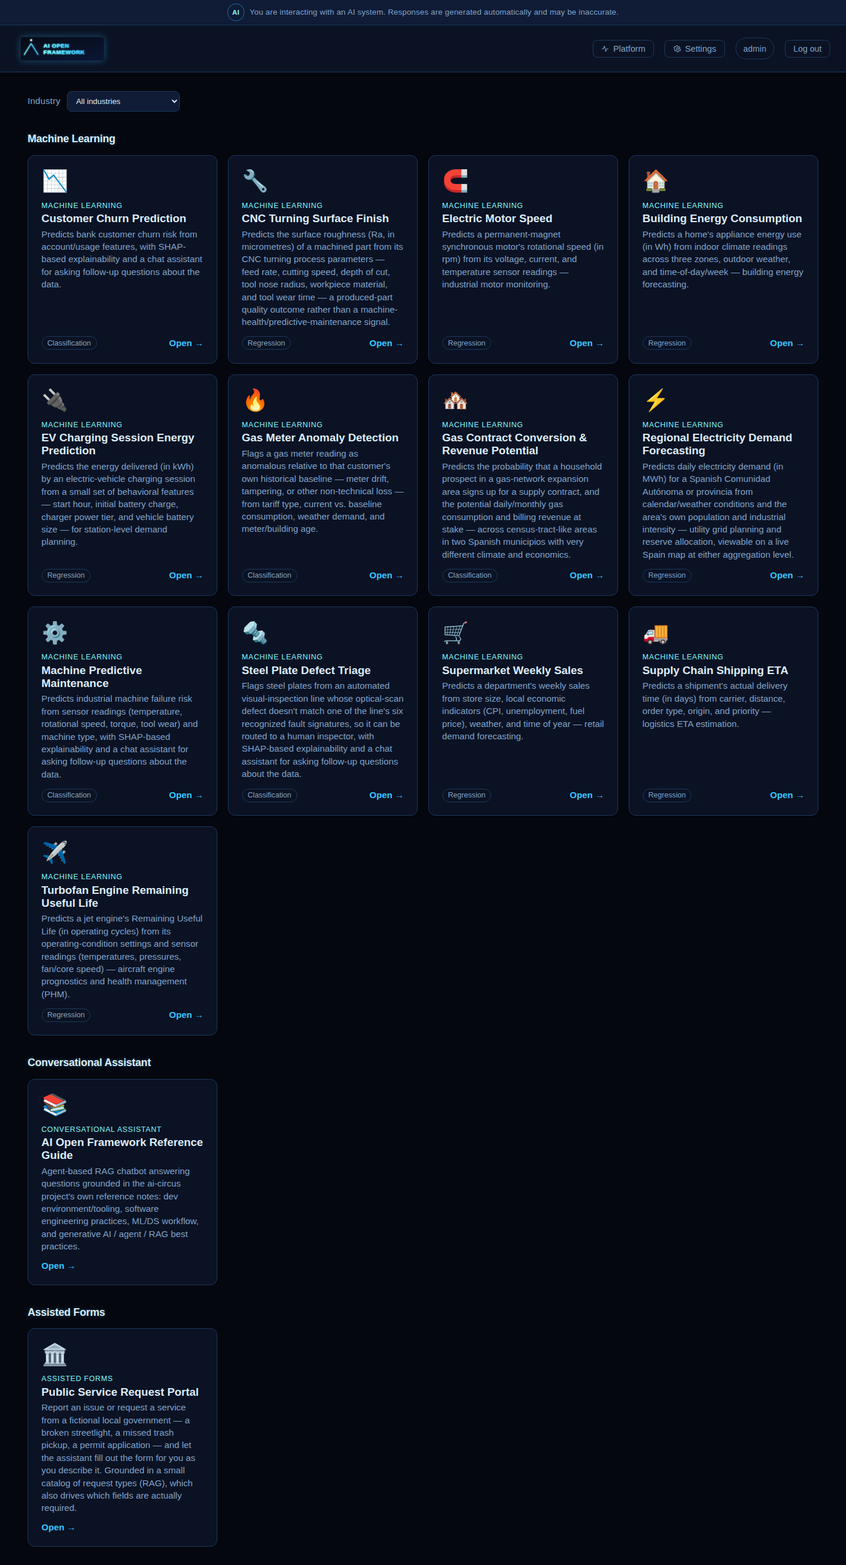
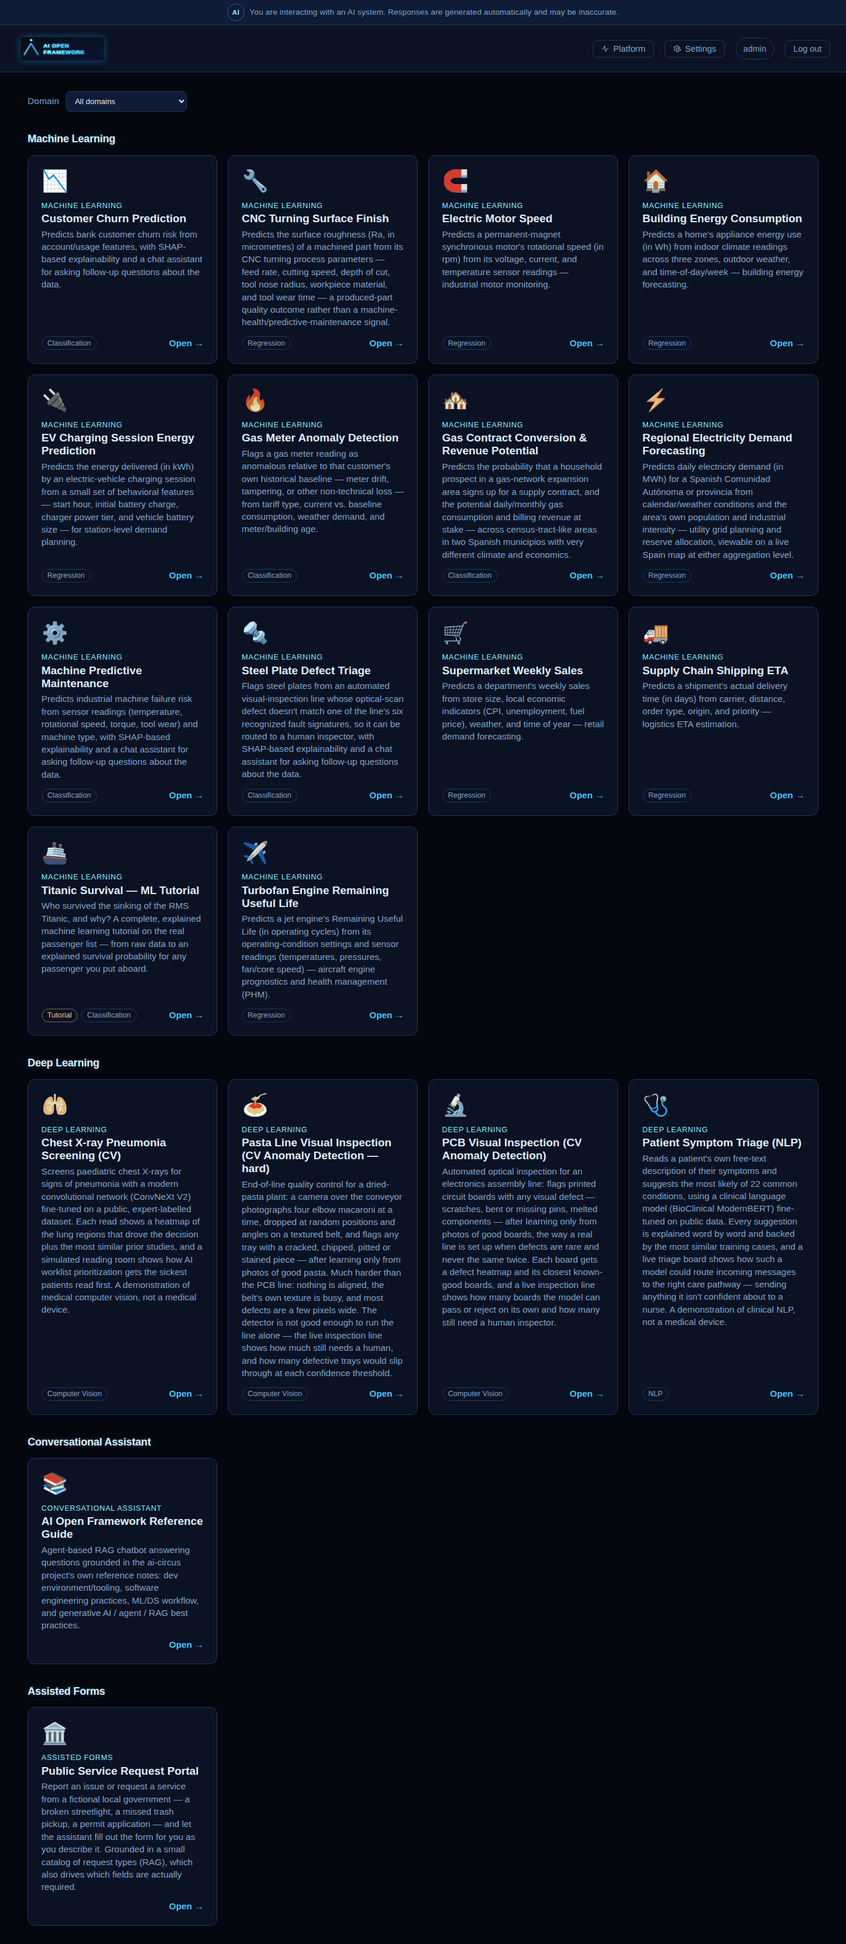
docs: Feature the Titanic tutorial in the README

diff --git a/services/training/src/training/core/training.py b/services/training/src/training/core/training.py
@@ -30,8 +30,9 @@ logger = get_logger(__name__)
 
 # Gradient boosting sized for small tables (hundreds to a few thousand rows): shallow
 # trees, a slow learning rate, row/column subsampling and L2 — the plain `lightgbm`
-# defaults memorise a table that small. Measured on `titanic` (5-fold CV ROC AUC):
-# 0.884 for this vs 0.867 for `lightgbm` and 0.865 for logistic regression.
+# defaults memorise a table that small. Measured on `titanic` (5-fold CV ROC AUC on
+# the training split): 0.885 for this vs 0.860 for `lightgbm` and 0.872 for logistic
+# regression.
 _SMALL_DATA_LGBM: dict[str, Any] = {
     "n_estimators": 300,
     "learning_rate": 0.03,

diff --git a/docs/scenarios/titanic.md b/docs/scenarios/titanic.md
@@ -1,0 +1,310 @@
+# 🚢 Titanic Survival — an explained ML tutorial
+
+> Domain: **Tutorials** · Kind: `tabular_ml` (binary classification) · Scenario: [`scenarios/titanic/scenario.yaml`](../../scenarios/titanic/scenario.yaml)
+
+On 15 April 1912 the RMS Titanic sank on her maiden voyage and more than 1,500 of the 2,224
+people aboard died. This scenario turns the real passenger list into a complete, **explained**
+machine-learning tutorial. It walks every step from the raw CSV to an explained survival
+probability, then puts all 891 passengers back aboard an illustrated liner so you can explore
+who survived, what the model predicted for each of them, and why.
+
+<p align="center">
+  <img src="../screenshots/titanic/voyage-model.png" alt="The Voyage tab: all 891 passengers berthed by class aboard an illustrated cutaway of the RMS Titanic at night, coloured from red (likely perished) through grey to blue (likely survived)" width="900">
+</p>
+<p align="center"><sub>Every dot is a real passenger, berthed by ticket class and coloured by the model's survival probability.</sub></p>
+
+It is ported from the 2018 Keras notebook in
+[angelmtenor/data-science-keras](https://github.com/angelmtenor/data-science-keras/blob/master/notebooks/titanic.ipynb)
+and modernised: engineered features, a small-data gradient-boosting model chosen by
+cross-validation, SHAP explanations, and honest hold-out metrics.
+
+| | |
+|---|---|
+| **Question** | Did a passenger survive the sinking? We predict a probability, not a yes/no. |
+| **Data** | Kaggle *Titanic — Machine Learning from Disaster*, labelled file: 891 passengers (the crew are not included) |
+| **Model** | LightGBM tuned for small tables (`lightgbm_small_data`), selected over logistic regression |
+| **5-fold CV ROC AUC** | **0.885 ± 0.015** (logistic regression: 0.872 ± 0.016) |
+| **Hold-out (179 passengers)** | ROC AUC **0.873** · accuracy 82.1% · precision 81.4% · recall 69.6% |
+| **The 2018 Keras DNN** | ROC AUC 0.86 · accuracy 82.7% |
+| **Tabs** | Scenario · **Tutorial** · Data & BI · ML Predictions · ML Insights · **Voyage** |
+| **Extra infrastructure** | None. It uses the existing `prediction`/`training`/`etl-tabular` services; model artifacts are ~350 KB |
+
+## Contents
+
+- [The Voyage tab](#the-voyage-tab)
+- [The Tutorial tab](#the-tutorial-tab)
+- [The data science](#the-data-science)
+- [How it is built](#how-it-is-built)
+- [Run it yourself](#run-it-yourself)
+- [Adding the next tutorial](#adding-the-next-tutorial)
+- [Credits](#credits)
+
+---
+
+## The Voyage tab
+
+A night cutaway of a four-funnel liner: decks A–G, lifeboats on the boat deck, glowing boiler
+rooms, steam from the three working funnels, the ship's lights reflected on a flat-calm sea,
+and the iceberg dead ahead. All 891 passengers are aboard, berthed where their class slept:
+1st class high up amidships, 2nd class aft, and 3rd class (steerage) on the lowest decks at the
+bow and stern. They are scored and SHAP-explained by the deployed model in one batched
+`/predict` call.
+
+<p align="center"><img src="../screenshots/titanic/voyage-tab.png" alt="The Voyage tab: headline figures (891 aboard, 38% survived, model average 38%, cross-validated ROC AUC 0.885), colour-mode switch, passenger search and the ship" width="850"></p>
+
+### Three ways to colour the ship
+
+| Mode | What you see |
+|---|---|
+| **Model's prediction** | Survival probability on a red → grey → blue scale. Within each class the most likely survivors are berthed first, so every deck reads as a gradient. |
+| **Reveal real fate** | What actually happened: survivors filled blue, victims as hollow red rings, so fate is never encoded by colour alone. The reveal sweeps from bow to stern, the way the ship went down. |
+| **Model vs reality** | Only the model's mistakes light up: survivors it had written off (blue) and victims it expected to live (red). Everyone it got right fades into the hull. |
+
+<p align="center">
+  <img src="../screenshots/titanic/voyage-fate.png" alt="Reveal real fate: survivors as filled blue dots, victims as hollow red rings" width="49%">
+  <img src="../screenshots/titanic/voyage-surprises.png" alt="Model vs reality: only the passengers the model misjudged are highlighted" width="49%">
+</p>
+
+The class cards under the ship already tell the story: the model expects 62% / 47% / 24% of 1st /
+2nd / 3rd class to survive, and the real rates were 63% / 47% / 24%.
+
+### Select a cohort
+
+Filter chips (class, sex, title, port) and range sliders (age, fare per person) dim everyone
+outside the cohort and compare its average model probability with its real survival rate. For
+example, **3rd-class women** are 144 passengers: the model expects 52%, 50% really survived, and
+at the 50% cut-off it gets 111 of the 144 right. You can also search any passenger by name or
+`PassengerId`.
+
+### One passenger, explained
+
+Click anyone (or find them by name) to see their probability as a **SHAP waterfall**. It starts
+from the model's average passenger and shows how much each fact about this person pushed the
+probability up or down, in percentage points. The bars add up exactly to their prediction.
+
+<p align="center"><img src="../screenshots/titanic/voyage-explain.png" alt="Laina Heikkinen, a 3rd-class woman who survived: 57% probability, raised by sex and title, lowered by ticket class" width="850"></p>
+
+Laina Heikkinen (#3), a 26-year-old travelling alone in 3rd class, gets **57%**. Being a woman
+(+14.4 pts) and a "Miss" (+12.1 pts) raise her chance; her 3rd-class ticket costs her 15.5
+points. She survived.
+
+### What if…?
+
+**What if…? Edit this passenger** turns any passenger into a live what-if form, marked by a ★ on
+the ship. You can also board one of the personas: Jack and Rose (fictional, inspired by the
+1997 film), a 3rd-class mother of four, an Irish girl boarding at Queenstown, and others. The
+model re-scores and re-explains every change as you type.
+
+<p align="center"><img src="../screenshots/titanic/voyage-whatif.png" alt="What if Laina Heikkinen had travelled 1st class: 57% becomes 90% (+33.2 pts)" width="480"></p>
+
+Move Laina to 1st class and nothing else changes: **57% → 90% (+33.2 pts)**.
+
+---
+
+## The Tutorial tab
+
+A tutorial scenario opens on its tutorial: eleven chapters of plain-language explanation, each
+backed by live charts and widgets computed from this platform's own dataset and deployed model.
+None of it is a screenshot.
+
+<p align="center"><img src="../screenshots/titanic/tutorial-intro.png" alt="Tutorial introduction with the chapter rail and live headline metrics" width="850"></p>
+
+| # | Chapter | Live content |
+|---|---|---|
+| 1 | Frame the problem: probability vs yes/no; why ROC AUC over accuracy | Class balance, and the 61.6% "nobody survived" baseline |
+| 2 | Meet the data: the raw columns | Preview of the model-ready rows |
+| 3 | Clean the data: every imputation is a modelling decision | Table of missing values and what was done |
+| 4 | Engineer features: Title, travelling party, fare per person | Survival rate by title and by party size |
+| 5 | Explore: who survived? | Survival by sex, by class × sex, age distribution, fare by class |
+| 6 | Choose a model: pipeline, candidates, the CV protocol, Green Code | The **real training leaderboard** |
+| 7 | Evaluate honestly | Hold-out **ROC curve** and **confusion matrix** |
+| 8 | Explain the model: what SHAP means | Global SHAP importance |
+| 9 | Ask what-if questions | The original notebook's passengers, **scored live** |
+| 10 | Responsible AI: why sex is a feature here and not in churn | – |
+| 11 | Your turn | A link to the Voyage tab |
+
+<p align="center">
+  <img src="../screenshots/titanic/tutorial-explore.png" alt="Chapter 5: survival rate by sex, by class and sex, age distribution by fate, and fare per person by class" width="49%">
+  <img src="../screenshots/titanic/tutorial-model.png" alt="Chapter 6: the model-selection leaderboard from training" width="49%">
+</p>
+<p align="center">
+  <img src="../screenshots/titanic/tutorial-evaluate.png" alt="Chapter 7: ROC curve (AUC 0.873) and confusion matrix on the 179-passenger hold-out" width="49%">
+  <img src="../screenshots/titanic/tutorial-examples.png" alt="Chapter 9: the notebook's example passengers scored live, with their top SHAP reasons" width="49%">
+</p>
+
+Chapter 9 re-runs the original notebook's what-if passengers through the deployed model. The
+average 2nd-class man gets 6% and the average 2nd-class woman 84%, identical except for sex. A
+7-year-old boy gets 96% / 92% / 86% in 1st / 2nd / 3rd class. Sex decided most fates, and
+class decided who among the women and children got out.
+
+---
+
+## The data science
+
+### Preparation
+
+[`scripts/prepare_titanic_dataset.py`](../../scripts/prepare_titanic_dataset.py) turns the
+verbatim Kaggle file (checked in next to the scenario, SHA-256-pinned) into the model-ready
+`sample_data/titanic.csv` that `etl-tabular` seeds:
+
+| Step | Why |
+|---|---|
+| **Title** parsed from `Name` (Mr / Mrs / Miss / Master / Rare) | One feature carrying sex, age group (a *Master* is a boy), marital status and rank. It is the strongest single feature. |
+| **Age**: 177 missing values filled with the median of the same title *and* class | A missing "Master" in 3rd class is a child, not the overall median of 28. (Fitted on all rows: a small, disclosed leak the tutorial points out.) |
+| **TicketGroup**: passengers sharing a ticket number | Families, friends and servants who travelled, and often died, together |
+| **FarePerPerson** = fare / TicketGroup | `Fare` is per ticket, so a big family on a cheap ticket looked rich |
+| **Cabin dropped** | 77% missing, and recorded far more often for survivors: a label leak |
+| `Pclass` / `Embarked` given readable labels | `1st`, `Southampton`, …; the two missing ports are filled with Southampton |
+| `Name` kept as a **display column** only | Shown and searchable in the UI, never a model input |
+
+### Model selection
+
+Both candidates share one scikit-learn pipeline (impute → standardise numbers → one-hot encode
+categories → estimator):
+
+1. A stratified **80/20 split** sets aside 179 passengers that no decision ever touches.
+2. **5-fold stratified cross-validation** on the other 712 ranks the candidates by mean ROC AUC.
+   One 179-row hold-out can swing a metric by ±0.03 on its own; five folds cannot.
+3. **Green Code**: the complex model is adopted only if it beats the simpler one by more than
+   **0.01 AUC**.
+4. The winner is scored on the hold-out, **then** refit on all 891 passengers for deployment.
+
+| Candidate | 5-fold CV ROC AUC | Hold-out ROC AUC | Hold-out accuracy | |
+|---|---|---|---|---|
+| Logistic regression | 0.872 ± 0.016 | 0.855 | 82.1% | |
+| **LightGBM (small data)** | **0.885 ± 0.015** | **0.873** | 82.1% | ✓ deployed (+0.013 > 0.01) |
+| *2018 Keras DNN (for reference)* | – | 0.86 | 82.7% | |
+
+`lightgbm_small_data` is a new, reusable training candidate:
+300 trees, learning rate 0.03, 8 leaves, depth 4, `min_child_samples` 10, 80% row and 70%
+column subsampling, L2 = 2. The plain `lightgbm` defaults memorise a table this small: 0.860
+CV ROC AUC against 0.885.
+
+How the feature work paid off (CV ROC AUC, same boosted model): about 0.873 with the raw columns,
+**0.885** with Title and the travelling-party features. Adding the cabin (or a "has cabin" flag)
+gained nothing and would have leaked the label. Scores in the high 0.80s are close to the
+ceiling for this data without leaky features such as the survival of a passenger's own ticket
+group.
+
+On the hold-out, at a 50% cut-off: 99 true negatives, 11 false positives, 21 false negatives,
+48 true positives. Globally, **title, sex, ticket class, fare per person and age** carry most
+of the model's SHAP importance.
+
+### Honest numbers
+
+The metrics above are the **model card** that `training` records *before* the final refit, and
+`prediction` serves them at `GET /model/{slug}/card`: per-candidate CV and hold-out scores, the
+hold-out ROC curve and confusion matrix, and global SHAP importance. The platform's generic
+`/dataset/{slug}/evaluation` endpoint scores the deployed (refit) model on rows it was trained
+on, so it is optimistic. The Tutorial therefore reads the model card instead. The Voyage tab
+also scores passengers the model was refit on, which the tutorial says openly.
+
+### Responsible AI
+
+The churn scenario drops `Gender`, because a bank would use that model to make decisions about
+people today. This one uses sex and age **on purpose**: it *describes* who was saved in 1912
+under "women and children first". A model trained on history reproduces its biases. It
+predicts who *was* saved, never who *should* have been.
+
+---
+
+## How it is built
+
+Everything specific to Titanic is **data** in its `scenario.yaml`. The two new tabs are generic
+renderers that any future scenario can reuse:
+
+| Piece | Where | Reusable as |
+|---|---|---|
+| `tutorial:` block → Tutorial tab | [`TutorialView.tsx`](../../ui-react/src/TutorialView.tsx) | Any `tabular_ml` scenario: markdown chapters, `default_charts`-style charts, and widgets (`dataset_preview`, `class_balance`, `model_card`, `roc_curve`, `confusion_matrix`, `feature_importance`, `examples`) |
+| `ui_extras: {kind: voyage_explorer}` → Voyage tab | [`VoyageView.tsx`](../../ui-react/src/VoyageView.tsx), [`voyageScene.tsx`](../../ui-react/src/voyageScene.tsx) | Any binary classifier whose rows are people aboard a vessel: `zone_by`, `zones`, `filters`, `range_filters`, `name_column`, `personas` |
+| `model.selection_metric` + `model.cv_folds` | `training` | k-fold CV selection on ROC AUC / accuracy / R² for any scenario (default: one hold-out, as before) |
+| Model card | `training` metadata → `prediction` `GET /model/{slug}/card` | Every tabular scenario retrained since this change |
+| `dataset.display_columns` | `etl-tabular`, `prediction`, `ui-react` | Any scenario: descriptive columns shown next to the row id, never trained on |
+| `industry: tutorial` | Scenario picker **Domain** filter | New domains: `tutorial`, `society_ethics` |
+
+```yaml
+# scenarios/titanic/scenario.yaml (abridged)
+industry: tutorial
+dataset:
+  index_col: "PassengerId"
+  display_columns: ["Name"]
+model:
+  candidates: ["logistic_regression", "lightgbm_small_data"]
+  accuracy_gain_threshold_for_complexity: 0.01
+  selection_metric: roc_auc
+  cv_folds: 5
+ui_extras:
+  kind: voyage_explorer
+  zone_by: Pclass
+  zones: [{key: "1st", label: "First class"}, {key: "2nd", ...}, {key: "3rd", ...}]
+  filters: [Sex, Title, Embarked]
+  range_filters: [Age, FarePerPerson]
+  name_column: Name
+tutorial:
+  steps:
+    - title: "7 · Evaluate honestly"
+      body: |
+        The selected model, trained on the 80% only, scored on the untouched hold-out…
+      widgets: [roc_curve, confusion_matrix]
+```
+
+**Every dataset view now leads with the record's identity.** The scenario's `index_col`
+(`PassengerId`, `CustomerId`, …) plus any `display_columns` come first in the Data & BI table and
+in batch predictions, and they are searchable. `etl-tabular` also de-duplicates on *id + values*
+rather than on values alone, which previously dropped 106 distinct Titanic passengers who
+happened to share every feature.
+
+<p align="center"><img src="../screenshots/titanic/data-ids.png" alt="Data & BI sample rows led by PassengerId and Name, filtered by a name search" width="850"></p>
+
+**Footprint.** Titanic adds no pods or services. The model and its SHAP explainer are about
+350 KB, preloaded by `prediction` at start-up like every other model. Both tabs are lazy-loaded
+chunks (Voyage ~8 KB and Tutorial ~5 KB gzipped, plus their CSS), so no other scenario downloads
+them. The Voyage tab scores and explains all 891 passengers in one batched call (about 7 s the
+first time) and caches the result for the session, so re-opening it is instant. The survival
+colours (#3f93eb / #ea4f58, grey midpoint) were validated for colour-vision deficiency and
+contrast against the scene's night sky.
+
+---
+
+## Run it yourself
+
+On a running cluster (see the main [README](../../README.md#getting-started)):
+
+```bash
+make k3s-pipeline
+```
+
+Then open <http://aiopen.localhost>, set **Domain → Tutorials** and open **Titanic Survival — ML
+Tutorial**.
+
+<p align="center"><img src="../screenshots/titanic/gallery-tutorials.png" alt="Scenario gallery filtered to the Tutorials domain" width="700"></p>
+
+To change the feature recipe, edit the script and regenerate the seed file, then re-run the
+pipeline:
+
+```bash
+services/training/.venv/bin/python scripts/prepare_titanic_dataset.py
+```
+
+---
+
+## Adding the next tutorial
+
+A tutorial is a YAML file:
+
+1. Add `scenarios/<slug>/` with the data under `sample_data/` and a `scenario.yaml` whose
+   `industry` is `tutorial`.
+2. Write the `tutorial:` chapters: markdown `body`, an optional `takeaway`, `charts`, and
+   `widgets`. The schema rejects unknown chart columns and invalid example records at seed time.
+3. Optionally, set `model.cv_folds` / `model.selection_metric` for a small dataset, and add a
+   `ui_extras` tab that suits the story.
+4. Restart `platform-registry` (it seeds scenarios), then run `make k3s-pipeline`.
+
+Good candidates from the same notebook collection are *Student Admissions* and *House Prices*.
+The new **Society & Ethics** domain is ready for fairness-oriented datasets.
+
+## Credits
+
+- Data: [Kaggle — Titanic: Machine Learning from Disaster](https://www.kaggle.com/competitions/titanic)
+- Original notebook: [angelmtenor/data-science-keras — titanic.ipynb](https://github.com/angelmtenor/data-science-keras/blob/master/notebooks/titanic.ipynb)
+- Explanations: SHAP (Lundberg & Lee, 2017); model: LightGBM (Ke et al., 2017)

diff --git a/README.md b/README.md
@@ -14,10 +14,22 @@ GenAI **scenarios** (tabular ML dashboards, agentic RAG chatbots, assisted-form 
   <img src="docs/screenshots/scenarios.png" alt="AI Open Framework scenario gallery" width="850">
 </p>
 
+### ✨ Featured scenario — 🚢 [Titanic Survival: an explained ML tutorial](docs/scenarios/titanic.md)
+
+All 891 passengers back aboard an illustrated RMS Titanic, each coloured by a cross-validated
+**ROC AUC 0.885** model. Reveal who really survived, filter any cohort, click a passenger to see
+*why* the model gave them their chance, and ask "what if?". Alongside it, an 11-chapter
+tutorial walks the whole ML workflow on live data. **[Read the scenario chapter →](docs/scenarios/titanic.md)**
+
+<p align="center">
+  <a href="docs/scenarios/titanic.md"><img src="docs/screenshots/titanic/voyage-model.png" alt="Titanic Voyage tab: all 891 passengers aboard an illustrated cutaway of the ship at night, coloured by the model's survival probability" width="850"></a>
+</p>
+
 ---
 
 ## Table of contents
 
+- [Featured: Titanic tutorial](docs/scenarios/titanic.md)
 - [Tour of the platform](#tour-of-the-platform)
 - [Scenario catalog](#scenario-catalog)
 - [Getting started](#getting-started)
@@ -45,12 +57,36 @@ on the backend, so nothing is a security bypass, just a different way in.
 ### Scenario gallery
 
 Every scenario a tenant is entitled to, rendered generically from `scenarios/*/scenario.yaml` —
-no per-scenario UI code — grouped by kind (**Machine Learning**, **Conversational Assistant**,
-**Assisted Forms**) with a **Domain** filter — the industries, plus the learning/society domains
-**Tutorials** and **Society & Ethics**. Tabular ML cards show their task type
-(classification/regression); the full catalog is in the [table below](#scenario-catalog).
+no per-scenario UI code — grouped by kind (**Machine Learning**, **Deep Learning**,
+**Conversational Assistant**, **Assisted Forms**) with a **Domain** filter — the industries,
+plus the learning/society domains **Tutorials** and **Society & Ethics**. Cards show their task
+type (classification/regression, NLP/computer vision) and a chip for tutorial scenarios; the
+full catalog is in the [table below](#scenario-catalog).
 
 <p align="center"><img src="docs/screenshots/scenario-gallery.png" alt="Scenario gallery — every scenario of every kind the admin tenant is entitled to" width="850"></p>
+
+### Tutorials — Titanic
+
+A **tutorial** scenario teaches the ML workflow on a classic dataset. `titanic` opens on an
+11-chapter **Tutorial** tab (framing, cleaning, feature engineering, exploration,
+cross-validated model selection, honest hold-out evaluation, SHAP, what-ifs, Responsible AI),
+where every chart and metric is live. Its **Voyage** tab puts every passenger back aboard the
+ship: reveal their real fate, find the model's surprises, and get any passenger's
+probability explained as a SHAP waterfall, with a live what-if editor. Full walkthrough:
+[docs/scenarios/titanic.md](docs/scenarios/titanic.md).
+
+<p align="center">
+  <img src="docs/screenshots/titanic/voyage-fate.png" alt="Reveal real fate: survivors filled blue, victims as hollow red rings" width="49%">
+  <img src="docs/screenshots/titanic/voyage-surprises.png" alt="Model vs reality: only the passengers the model misjudged light up" width="49%">
+</p>
+<p align="center">
+  <img src="docs/screenshots/titanic/voyage-explain.png" alt="A passenger's survival probability explained as a SHAP waterfall" width="62%">
+  <img src="docs/screenshots/titanic/voyage-whatif.png" alt="What if she had travelled 1st class: 57% becomes 90%" width="30%">
+</p>
+<p align="center">
+  <img src="docs/screenshots/titanic/tutorial-model.png" alt="Tutorial chapter 6: the real model-selection leaderboard" width="49%">
+  <img src="docs/screenshots/titanic/tutorial-evaluate.png" alt="Tutorial chapter 7: hold-out ROC curve and confusion matrix" width="49%">
+</p>
 
 ### Data
 
@@ -189,7 +225,7 @@ code (see [Adding a new scenario](#adding-a-new-scenario-or-service)).
 | **Gas Meter Anomaly Detection** (`luznova_gas_anomaly`) | `tabular_ml` — classification | Anomalous gas meter reading probability | Original content (synthetic, physically grounded) |
 | **EV Charging Session Energy Prediction** (`luznova_ev_charging`) | `tabular_ml` — regression | Energy delivered per charging session (kWh) | Original content (synthetic, physically grounded) |
 | **Gas Contract Conversion & Revenue Potential** (`luznova_gas_prospects`) | `tabular_ml` — classification | Whether a household prospect in a gas-network expansion area signs a supply contract, plus its revenue potential | Original content (synthetic, real Spain geography) |
-| **Titanic Survival — ML Tutorial** (`titanic`) | `tabular_ml` — classification, domain `tutorial` | Passenger survival probability — a guided **Tutorial** tab (every step of the ML workflow, live charts/metrics/SHAP) and a **Voyage** tab (all 891 passengers aboard an illustrated ship, filterable, SHAP-explained, what-if) · small-data LightGBM, 5-fold CV ROC AUC ≈ 0.88 | Kaggle — Titanic (via angelmtenor/data-science-keras) |
+| **[Titanic Survival — ML Tutorial](docs/scenarios/titanic.md)** (`titanic`) | `tabular_ml` — classification, domain `tutorial` | Passenger survival probability — a guided **Tutorial** tab (every step of the ML workflow, live charts/metrics/SHAP) and a **Voyage** tab (all 891 passengers aboard an illustrated ship, filterable, SHAP-explained, what-if) · small-data LightGBM, 5-fold CV ROC AUC ≈ 0.88 | Kaggle — Titanic (via angelmtenor/data-science-keras) |
 | **AI Open Framework Reference Guide** (`ai_circus_reference`) | `conversational_rag` | N/A — agentic Q&A over this project's own dev/ML/GenAI reference notes | Original content |
 | **Public Service Request Portal** (`service_request`) | `assisted_form` | N/A — the assistant fills out and classifies a service-request form live, from conversation | Original content |
 | **Patient Symptom Triage (NLP)** (`symptom_triage`) | `deep_learning` — text | Likely condition (22 classes) from a patient's own symptom description — fine-tuned BioClinical ModernBERT, word-level explanations, a live **Triage Board** tab | Hugging Face — gretelai/symptom_to_diagnosis |
